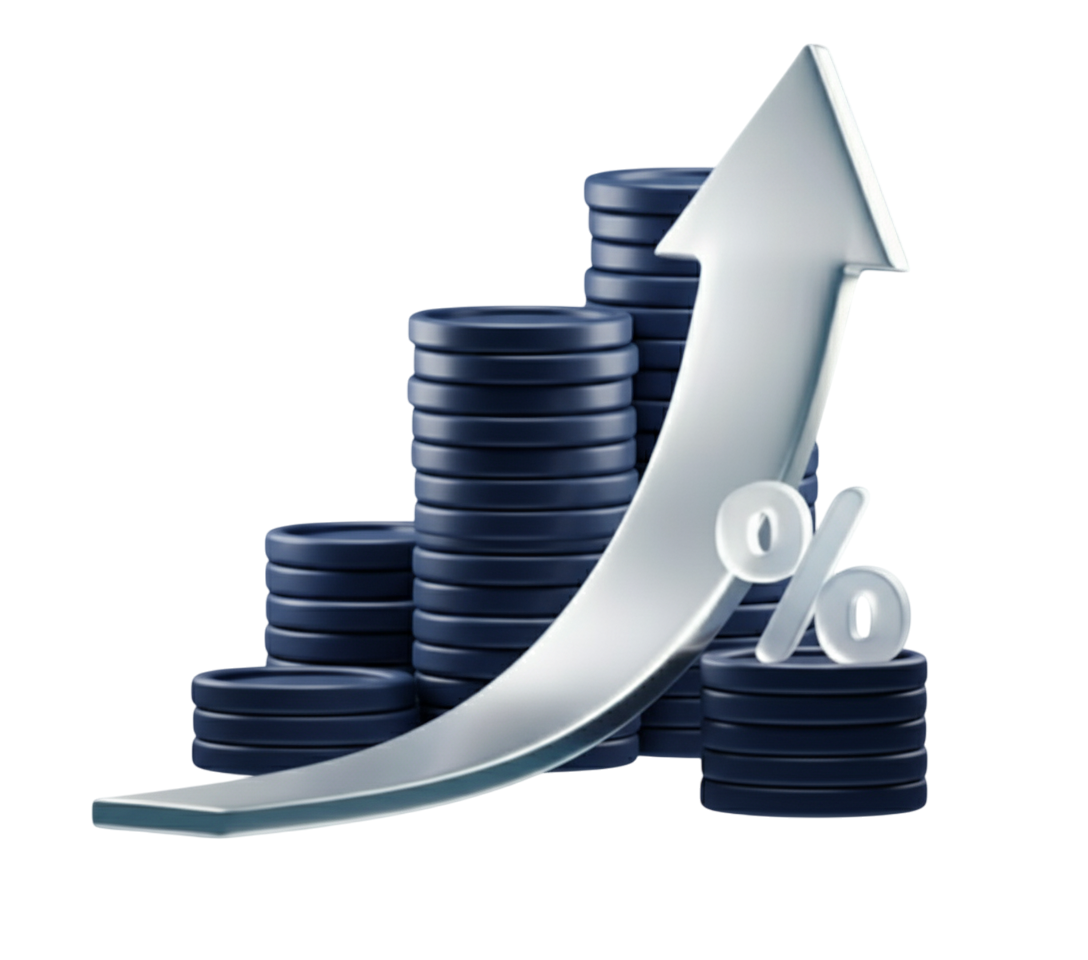
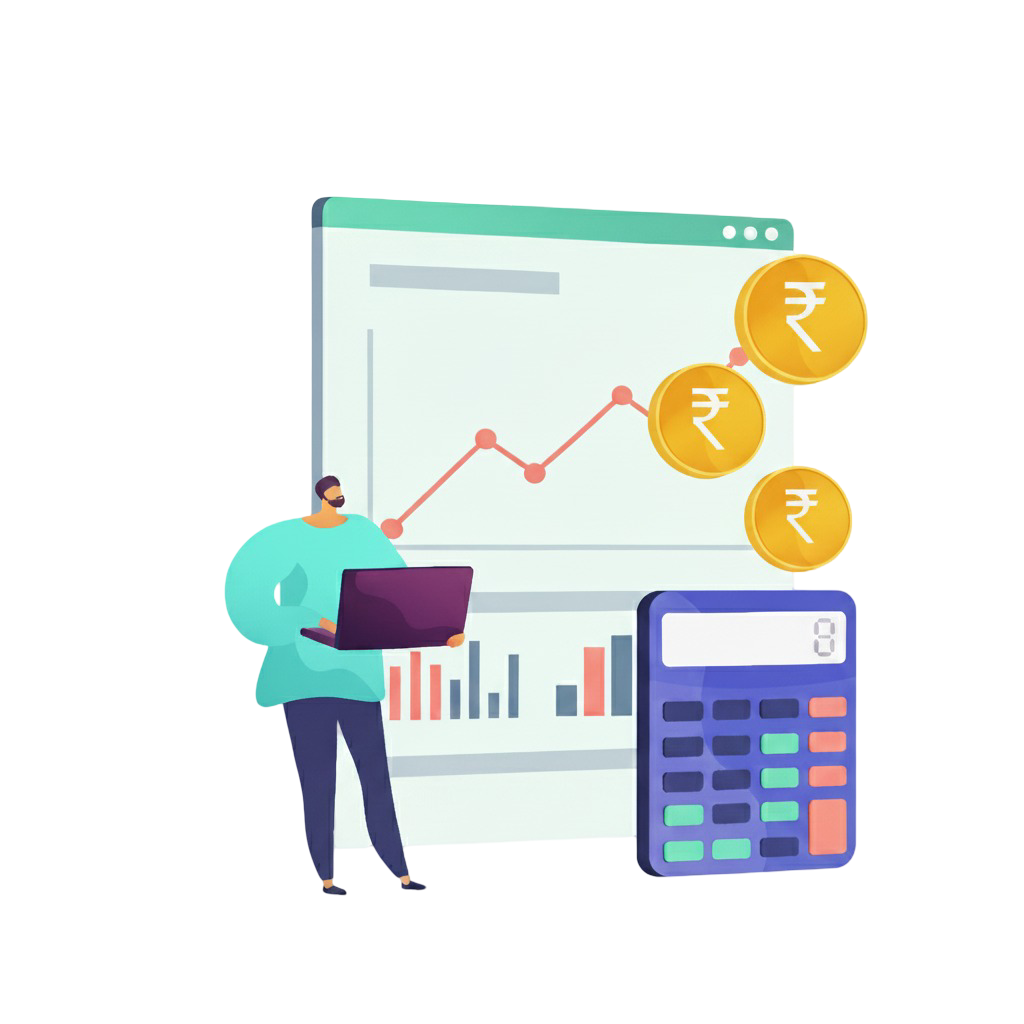
changed budget image

diff --git a/client/src/views/Transactions.jsx b/client/src/views/Transactions.jsx
@@ -19,7 +19,6 @@ function Transactions() {
     navigate(`edit-trans/${id}`);
   };
 
-  /* ===== Error State ===== */
   if (error)
     return (
       <>
@@ -27,8 +26,6 @@ function Transactions() {
         <ErrorState error={error} />
       </>
     );
-
-  /* ===== Loading State ===== */
 
   if (loading && !error)
     return (
